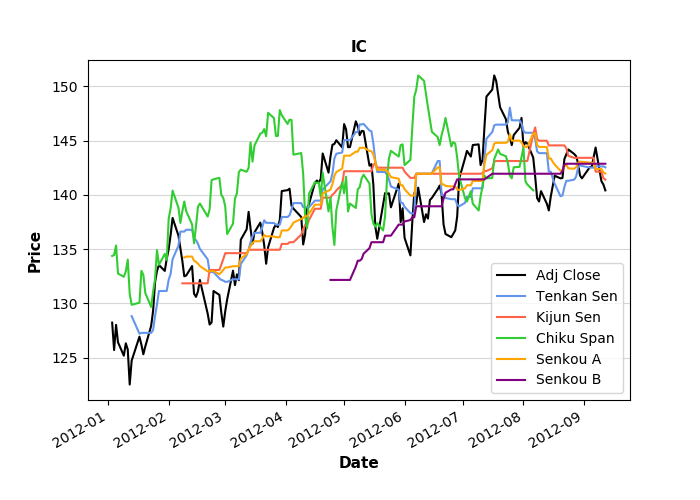
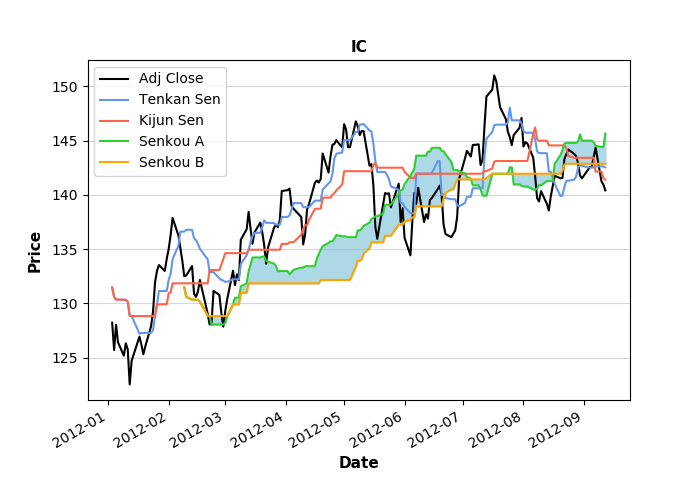
feat: IC technical indicator implemented.
IC technical indicator implemented in the _momentum module of the
tradingti.indicators package. Example code implemented. Package init
file updated accordingly. Repository and Example README files updated
accordingly.

diff --git a/tradingti/indicators/_momentum.py b/tradingti/indicators/_momentum.py
@@ -473,12 +473,16 @@ class IC(TI):
             
         # Sort the input data and fill the missing values if any
         df_data = fillMissingValues(df_data)
-
+        ti_data = self._calculateIndicator(df_data)
+        self._input_data = df_data
+        
         # Parent class constructor (all job is done here, parent class provides the public
         # interface for accessing the data of the indicator)
-        super().__init__(input_data = df_data['Adj Close'], ti_data = self._calculateIndicator(df_data),
+        super().__init__(input_data = df_data['Adj Close'], ti_data = ti_data,
             indicator_name = 'IC', lines_color = ['black', 'cornflowerblue', 
-            'tomato', 'limegreen', 'orange', 'purple'], subplots = False)
+            'tomato', 'limegreen', 'orange', 'purple'], subplots = False,
+            areas = [{'x': ti_data.index, 'y1': ti_data['Senkou A'], 
+            'y2': ti_data['Senkou B'], 'color': 'lightblue'}])
             
     
     def _calculateIndicator(self, input_data):
@@ -506,67 +510,65 @@ class IC(TI):
                 columns depending the requested sma periods.
         '''
         
-        # Calculate Tenkan Sen
-        tenkan_sen = [None]*8
-        
-        for i in range(8, len(input_data.index)):
-            # Highest high for the last 9 periods
-            H9 = max(input_data.iloc[i-8:i+1, input_data.columns.get_loc('High')].values)
-        
-            # Lowest low for the last 9 periods
-            L9 = min(input_data.iloc[i-8:i+1, input_data.columns.get_loc('Low')].values)
-        
-            tenkan_sen.append((H9+L9)/2.) 
-
-        # Calculate Kijun Sen
-        kijun_sen = [None]*25
-        
-        for i in range(25, len(input_data.index)):
-            # Highest high for the last 26 periods
-            H26 = max(input_data.iloc[i-25:i+1, input_data.columns.get_loc('High')].values)
-        
-            # Lowest low for the last 26 periods
-            L26 = min(input_data.iloc[i-25:i+1, input_data.columns.get_loc('Low')].values)
-        
-            kijun_sen.append((H26+L26)/2.) 
-
-        # Calculate Chiku Span
-        chiku_span = list(input_data.shift(periods = -26)['Close'].values)
-        
-        # Calculate Senkou A
-        senkou_a = [None]*len(input_data.index)
-        senkou_a[26:] = [(ts + ks)/2. for ts, ks in zip(tenkan_sen[26:], kijun_sen[26:])]
-
-        # Calculate Senkou B
-        senkou_b = [None]*51
-        
-        for i in range(51, len(input_data.index)):
-            # Highest high for the last 52 periods
-            H52 = max(input_data.iloc[i-51:i+1, input_data.columns.get_loc('High')].values)
-        
-            # Lowest low for the last 52 periods
-            L52 = min(input_data.iloc[i-51:i+1, input_data.columns.get_loc('Low')].values)
-        
-            senkou_b.append((H52+L52)/2.) 
-        
-        senkou_b_shifted = [None]*len(input_data.index) 
-        senkou_b_shifted[26:] = senkou_b[:-26]
-        
-        # Build the indicator's dataframe
+        # Build the indicator's dataframe 
         ic = pd.DataFrame(index = input_data.index, columns = ['Tenkan Sen', 
-            'Kijun Sen', 'Chiku Span', 'Senkou A', 'Senkou B'])
-        ic['Tenkan Sen'] = tenkan_sen
-        ic['Kijun Sen'] = kijun_sen
-        ic['Chiku Span'] = chiku_span
-        ic['Senkou A'] = senkou_a
-        ic['Senkou B'] = senkou_b_shifted
+            'Kijun Sen', 'Senkou A', 'Senkou B'], data = None)
+        
+        ic['Tenkan Sen'] = (input_data['High'].rolling(window = 9, 
+            min_periods = 1).max() + input_data['Low'].rolling(window = 9,  
+            min_periods = 1).min())/2
+
+        ic['Kijun Sen'] = (input_data['High'].rolling(window = 26,
+            min_periods = 1).max() + input_data['Low'].rolling(window = 26,
+            min_periods = 1).min())/2
+
+        # Is optional, not needed in this version of the indicator. Column
+        # removed also from the ic dataframe definition.
+        #ic['Chiku Span'] = input_data['Adj Close'].shift(-26)
+
+        ic['Senkou A'] = ((ic['Tenkan Sen'] + ic['Kijun Sen'])/2).shift(26) 
+        
+        ic['Senkou B'] = ((input_data['High'].rolling(window = 52, 
+            min_periods = 1).max() + input_data['Low'].rolling(window = 52, 
+            min_periods = 1).min())/2).shift(26)
         
         return ic
+
     
+    def _whereInCloud(self, value, cloud):
+        '''
+        Checks the relative position of the value to the cloud.
+        
+        Args:
+            value (pfloat): The value for which the relative position to the
+                cloud should be calculated.
+                
+            cloud (list of two floats): Bounds of the cloud in not guaranteed 
+                order.
+
+        Raises:
+            -
+
+        Returns:
+            int: 0 means that value is within the cloud, 1 means that value
+                is above the cloud, -1 means that value is below the cloud.
+        '''
+        
+        ordered_values = cloud + [value]
+        ordered_values.sort()
+        
+        return ordered_values.index(value) - 1
+        
     
     def getSignal(self):
         '''
         Calculates and returns the signal of the technical indicator.
+        
+        - A buy signal is reinforced when the Tenkan Sen crosses above the Kijun 
+        Sen while the Tenkan Sen, Kijun Sen, and price are all above the cloud.
+        - A sell signal is reinforced when the TenKan Sen crosses below the 
+        Kijun Sen while the Tenkan Sen, Kijun Sen, and price are all below the 
+        cloud.
     
         Args:
             -
@@ -578,5 +580,25 @@ class IC(TI):
             integer: The Trading signal. Possible values are {'Hold': 0, 
                 'Buy': -1, 'Sell': 1}. See TRADE_SIGNALS package constant.
         '''
+
+        if self._ti_data.iat[-1,0] > self._ti_data.iat[-1,1] and \
+            self._whereInCloud(self._input_data['Adj Close'].to_frame().iat[-1,0], 
+            [self._ti_data.iat[-1,2], self._ti_data.iat[-1,3]]) == 1 and \
+            self._whereInCloud(self._ti_data.iat[-1,0], 
+            [self._ti_data.iat[-1,2], self._ti_data.iat[-1,3]]) == 1 and \
+            self._whereInCloud(self._ti_data.iat[-1,1], 
+            [self._ti_data.iat[-1,2], self._ti_data.iat[-1,3]]) == 1:
+            return TRADE_SIGNALS['Buy']
+            
+        if self._ti_data.iat[-1,0] < self._ti_data.iat[-1,1] and \
+            self._whereInCloud(self._input_data['Adj Close'].to_frame().iat[-1,0], 
+            [self._ti_data.iat[-1,2], self._ti_data.iat[-1,3]]) == -1 and \
+            self._whereInCloud(self._ti_data.iat[-1,0], 
+            [self._ti_data.iat[-1,2], self._ti_data.iat[-1,3]]) == -1 and \
+            self._whereInCloud(self._ti_data.iat[-1,1], 
+            [self._ti_data.iat[-1,2], self._ti_data.iat[-1,3]]) == -1:
+            return TRADE_SIGNALS['Buy']
+            
+        return TRADE_SIGNALS['Hold']
         
-        pass
+        

diff --git a/tradingti/indicators/_technical_indicator.py b/tradingti/indicators/_technical_indicator.py
@@ -40,6 +40,12 @@ class TI(ABC):
             
         subplots (boolean): Indicates if the technical indicator graph should
             contain subplots.
+            
+        areas (list of dictionaries): Includes the areas to be plotted by using
+            the fill_between matplotlib method. Each member of the list should
+            be a dictionary with the below keys:
+            {'x':, 'y1':, 'y2':, 'color':}, see fill_between matplotlib method
+            for more details.
 
     Attributes:
         _input_data (pandas dataframe): The input to the Technical Indicator.
@@ -54,6 +60,12 @@ class TI(ABC):
             
         _subplots (boolean): Indicates if the technical indicator graph should
             contain subplots.
+            
+        _areas (list of dictionaries): Includes the areas to be plotted by using
+            the fill_between matplotlib method. Each member of the list should
+            be a dictionary with the below keys:
+            {'x':, 'y1':, 'y2':, 'color':}, see fill_between matplotlib method
+            for more details.
                                 
     Methods:
         getTiPlot(): Generates a plot including the input data and the technical 
@@ -67,13 +79,14 @@ class TI(ABC):
     
     '''
     def __init__(self, input_data, ti_data, indicator_name,
-        lines_color = None, subplots = False):
+        lines_color = None, subplots = False, areas = None):
 
         self._input_data = input_data
         self._ti_data = ti_data
         self._indicator_name = indicator_name
         self._lines_color = lines_color
         self._subplots = subplots
+        self._areas = areas
         
         
     def getTiPlot(self):
@@ -104,7 +117,7 @@ class TI(ABC):
             data = pd.concat([self._input_data, self._ti_data], axis = 1)
         
         return linesGraph(data = data, title = self._indicator_name, 
-            lines_color = self._lines_color)
+            lines_color = self._lines_color, areas = self._areas)
 
 
     def getTiData(self):

diff --git a/tradingti/utils/_plot.py b/tradingti/utils/_plot.py
@@ -18,7 +18,7 @@ from ._data_validation import validateDataframe
 
 def linesGraph(data, title = 'Untitled Graph', x_label = 'Date', 
     y_label = 'Price', lines_color = [None], lines_width = [None], 
-    lines_style = [None], alpha_values = [None]): 
+    lines_style = [None], alpha_values = [None], areas = None): 
     '''
     Returns a lines graph of type matplotlib.pyplot. The graph can be either
     a figure with a single plot, or a figure containing two vertical subplots.
@@ -65,6 +65,12 @@ def linesGraph(data, title = 'Untitled Graph', x_label = 'Date',
             the call of the matplotlib.pyplot.plot method. In case where the 
             lines are more than the members of the list, then the list is 
             scanned again from the zero index.
+            
+        areas (list of dictionaries): Includes the areas to be plotted by using
+            the fill_between matplotlib method. Each member of the list should
+            be a dictionary with the below keys:
+            {'x':, 'y1':, 'y2':, 'color':}, see fill_between matplotlib method
+            for more details.
         
     Raises:
         TypeError()
@@ -127,4 +133,10 @@ def linesGraph(data, title = 'Untitled Graph', x_label = 'Date',
     plt.gcf().text(0.04, 0.5, y_label, fontsize = 11, fontweight = 'bold', 
         va = 'center', rotation = 'vertical')         
     
+    # Plot areas
+    if areas is not None:
+        for a in areas:
+            plt.gca().fill_between(x = a['x'], y1 = a['y1'], y2 = a['y2'], 
+                color = a['color'])
+
     return plt

diff --git a/examples/indicators/momentum/README.md b/examples/indicators/momentum/README.md
@@ -44,7 +44,31 @@ The script generates the below plots:
 
 #### IC Technical Indicator example
 ```
-$
+$python indicators_ic.py
+- Graph ../figures/indicators_ic_example.png saved.
+
+IC data:
+             Tenkan Sen  Kijun Sen  Senkou A  Senkou B
+Date
+2012-01-03     131.465    131.465       NaN       NaN
+2012-01-04     130.600    130.600       NaN       NaN
+2012-01-05     130.350    130.350       NaN       NaN
+2012-01-06     130.350    130.350       NaN       NaN
+2012-01-09     130.330    130.330       NaN       NaN
+...                ...        ...       ...       ...
+2012-09-06     142.500    143.410  144.8525   142.865
+2012-09-07     142.620    142.140  144.5050   142.865
+2012-09-10     142.620    142.140  144.4175   142.865
+2012-09-11     142.620    141.540  144.4175   142.865
+2012-09-12     142.530    141.400  145.6525   142.865
+
+[176 rows x 4 columns]
+
+IC value at 2012-09-06: [142.5, 143.41, 144.85250000000002, 142.865]
+
+IC value at 2012-09-12 00:00:00 : [142.52999999999997, 141.39999999999998, 145.65249999999997, 142.865]
+
+Signal: Hold [ 0 ]
 ```
 
 The script generates the below plots:

diff --git a/README.md b/README.md
@@ -17,7 +17,7 @@ In release 0.1 the below technical indicators will be included:
  6. Bollinger Bands (BB)                         -- Status: Done
  7. Relative Strength Index (RSI)                -- Status: Done
  8. Fibonacci Retracement (FR)                   -- Status: Done
- 9. Ichimoku Cloud (IC)                          -- Status: Under Development
+ 9. Ichimoku Cloud (IC)                          -- Status: Done
 10. Standard Deviation (SD)                      -- Status: Done
 11. Average Directional Movement Index (ADX)     -- Status: Under Development
 12. On Balance Volume (OBV)                      -- Status: Under Development
